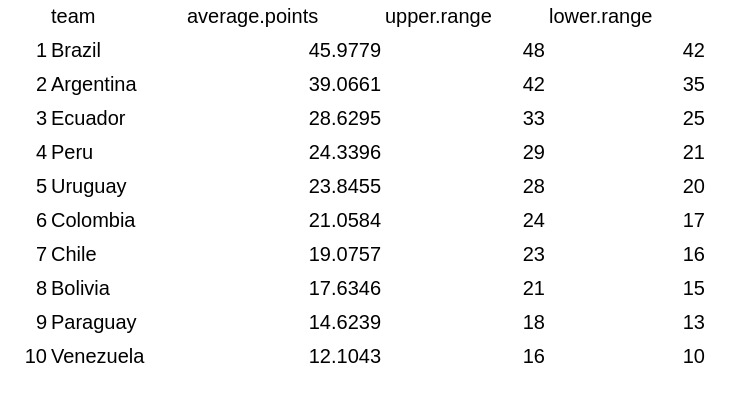
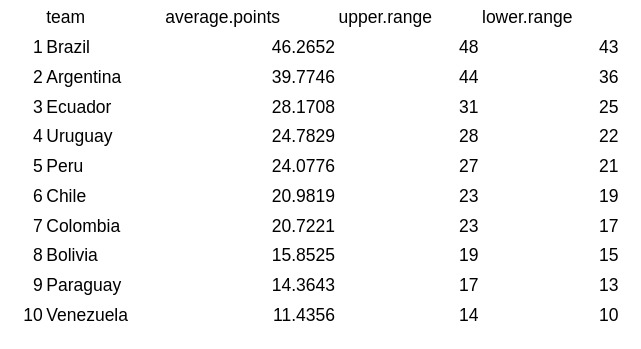
Updating after matchday 16

diff --git a/README.md b/README.md
@@ -17,7 +17,7 @@ Rscript run.R
 
 ## Current probabilities
 
-These are the current probabilities (01/29/2021) after match day 15 and 1 match pending between Brazil and Argentina.
+These are the current probabilities (02/02/2022) after match day 16 and 1 match pending between Brazil and Argentina.
 
 ### Matches
 
